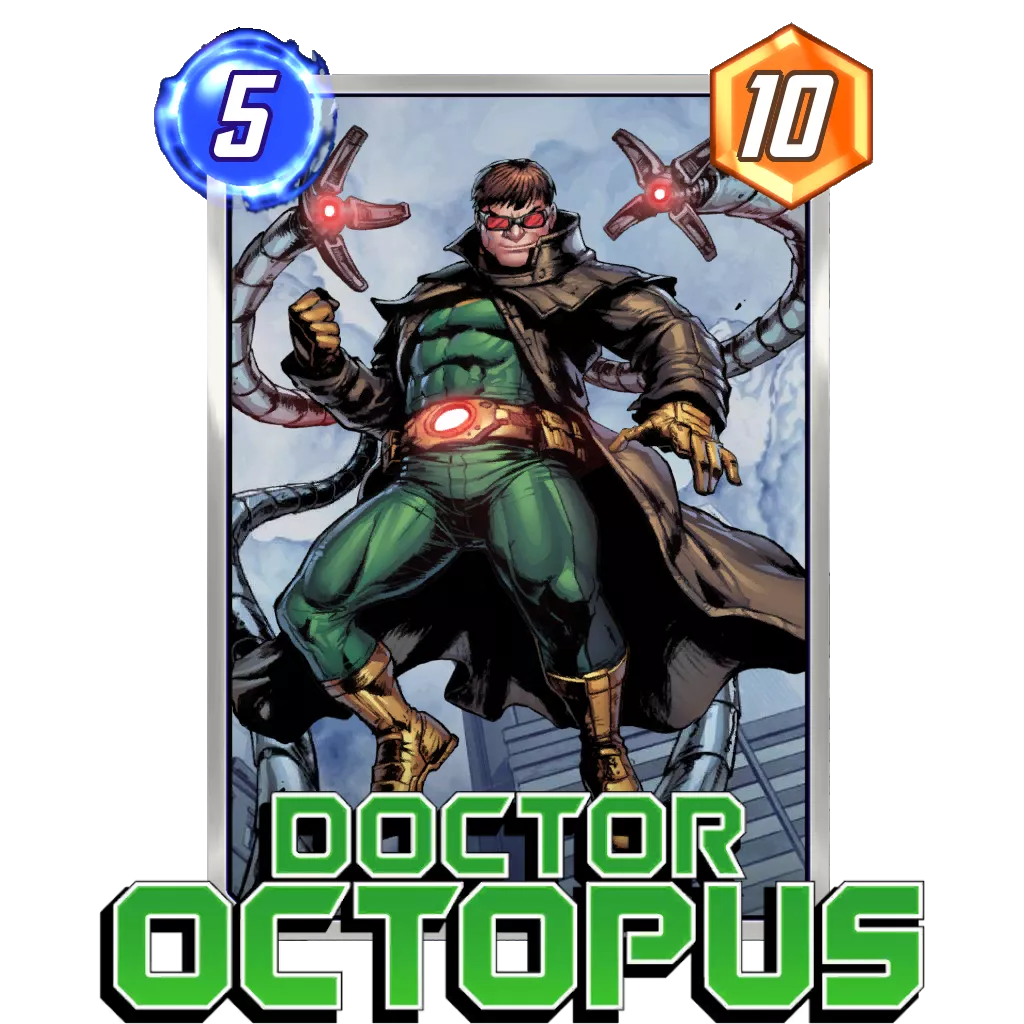
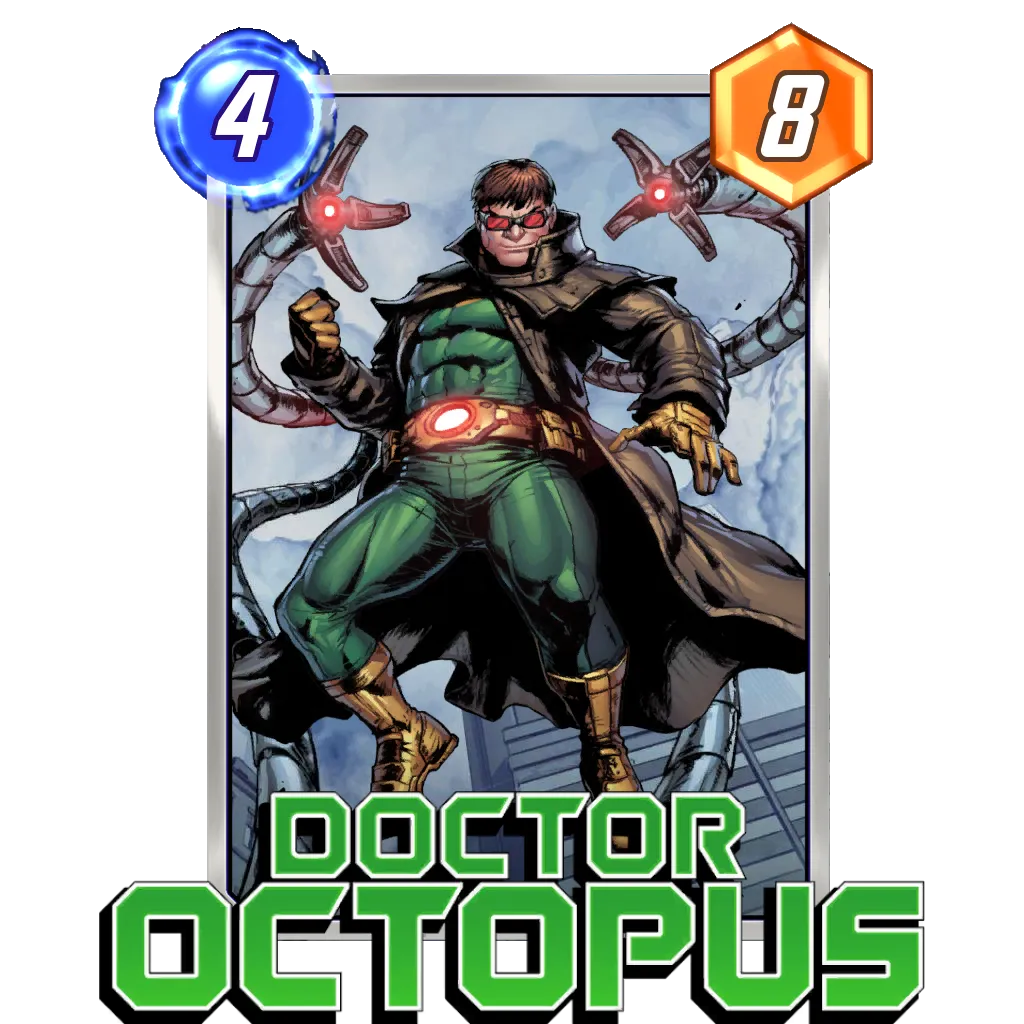
更新

diff --git a/cardlist.html b/cardlist.html
@@ -97,6 +97,7 @@
       <h2>2コスト</h2>
       <li><a href="cardtext/armor.html">アーマー</a></li>
       <li><a href="cardtext/iron-patriot.html">アイアンパトリオット</a></li>
+      <li><a href="cardtext/adam-warlock.html">アダム・ウォーロック</a></li>
       <li><a href="cardtext/angela.html">アンジェラ</a></li>
       <li><a href="cardtext/mysterio.html">イリュージョン！</a></li>
       <li><a href="cardtext/invisible-woman.html">インビジブル・ウーマン</a></li>
@@ -320,7 +321,6 @@
     <section id="section5">
       <h2>5コスト</h2>
       <li><a href="cardtext/iron-man.html">アイアンマン</a></li>
-      <li><a href="cardtext/adam-warlock.html">アダム・ウォーロック</a></li>
       <li><a href="cardtext/annihilus.html">アニヒラス</a></li>
       <li><a href="cardtext/abomination.html">アボミネーション</a></li>
       <li><a href="cardtext/valkyrie.html">ヴァルキリー</a></li>

diff --git a/cardtext/adam-warlock.html b/cardtext/adam-warlock.html
@@ -17,12 +17,12 @@
     <section>
     <img src="../cardimage/adam-warlock.webp" alt="adam-warlock" width="300">
     <h1>アダム・ウォーロック</h1>
-    <p>毎ターン終了時、自分がこのロケーションで優勢の場合、カードを１枚引く。</p>
+    <p>各ターン終了時、自分がここで優勢の場合はカードを１枚引く。そうでない場合はパワーを＋１する。</p>
     
     <h2 class="one_point"></h2>
     <p>
-        ドロー効果は強力だが、現状使いどころがあまりない<br>
-        早く救ってほしいカード
+        ドロー効果とパワーアップ効果を兼ね備えた強カード<br>
+        汎用性の塊
     </p>
 
 </section>

diff --git a/cardtext/dagger.html b/cardtext/dagger.html
@@ -17,6 +17,13 @@
     <img src="../cardimage/dagger.webp" alt="dagger" width="300">
     <h1>ダガー</h1>
     <p>カードがロケーションを移動した時、そこにある相手のカード１枚につき、パワーを＋２する。</p>
+                
+    <h2 class="one_point"></h2>
+    <p>
+        <a href="../cardtext/ghostspider.html">ゴーストスパイダー</a>や<a href="../cardtext/ironfist.html">アイアンフィスト</a>と組み合わせれば低コストで高パワーを出すことが可能<br>
+        移動デッキはもちろん、他のデッキにスパイスとして入れるのも面白い
+    </p>
+
     </section>
 </body>
 </html>

diff --git a/cardtext/doctor-octopus.html b/cardtext/doctor-octopus.html
@@ -16,7 +16,14 @@
     <section>
       <img src="../cardimage/doctor-octopus.webp" alt="doctor-octopus" width="300">
       <h1>ドクター・オクトパス</h1>
-      <p>公開時：相手の手札からカードを４枚引き、このロケーションの相手サイドに置く。</p>
-    </section>
+      <p>公開時：相手の手札からパワーが最も低いカードを1枚引き、このロケーションの相手サイドに置く。</p>
+                    
+      <h2 class="one_point"></h2>
+      <p>
+          ジャンクデッキに使われる<br>
+          
+      </p>
+  
+      </section>
 </body>
 </html>

diff --git a/cardtext/cull-obsidian.html b/cardtext/cull-obsidian.html
@@ -18,6 +18,14 @@
       <img src="../cardimage/cull-obsidian.webp" alt="cull-obsidian" width="300">
       <h1>カル・オブシディアン</h1>
       <p>このカードは、自分の１コストカードがあるロケーションにしかプレイできない。</p>
+                    
+      <h2 class="one_point"></h2>
+      <p>
+          スルトデッキに採用よくされる<br>
+          個人的にはバウンス系のパワー要員で入れるのが好き<br>
+          <a href="../cardtext/sam-wilson-captain-america.html">サム</a>との相性が抜群
+      </p>
+
     </section>
 </body>
 </html>

diff --git a/cardtext/cyclops.html b/cardtext/cyclops.html
@@ -19,6 +19,13 @@
     <p>「X-MEN、行くぞ！」(効果なし)</p>
     <p>or</p>
     <p>ハイ・エボリューショナリーの効果付与時<br>ターン終了時に未使用のエネルギーがある時、このカードがあるロケーションの相手のカード２枚のパワーを－１する。</p>
-    </section>
+                    
+    <h2 class="one_point"></h2>
+    <p>
+        <a href="../cardtext/high-evolutionary.html">ハイエボ</a>で使われたら厄介<br>
+        <a href="../cardtext/nebula.html">ネビュラ</a>との相性がいい
+      </p>
+
+  </section>
 </body>
 </html>

diff --git a/cardtext/electro.html b/cardtext/electro.html
@@ -17,6 +17,13 @@
       <img src="../cardimage/electro.webp" alt="electro" width="300">
       <h1>エレクトロ</h1>
       <p>公開時：エネルギーの最大値を＋１する。<br>永続：自分は各ターンにカードを１枚しかプレイできない。</p>
-    </section>
+                        
+      <h2 class="one_point"></h2>
+      <p>
+          ランプデッキに使われる<br>
+          エレクトロの永続効果を無効化したり、<a href="../cardtext/blink.html">ブリンク</a>でデッキに戻す動きも強い
+      </p>
+  
+      </section>
 </body>
 </html>

diff --git a/cardtext/ebony-maw.html b/cardtext/ebony-maw.html
@@ -17,6 +17,13 @@
     <img src="../cardimage/ebony-maw.webp" alt="ebony-maw" width="300">
     <h1>エボニー・マウ</h1>
     <p>このカードは、ターン３までのみプレイできる。<br>永続：自分はこのロケーションにカードをプレイできない。</p>
+                        
+    <h2 class="one_point"></h2>
+    <p>
+        <a href="../cardtext/war-machine.html">ウォーマシン</a>との相性がいい<br>
+        <a href="../locationtext/oscorp-tower.html">オズコープタワー</a>で送るのもあり
+    </p>
+
     </section>
 </body>
 </html>

diff --git a/cardtext/doctor-strange.html b/cardtext/doctor-strange.html
@@ -17,6 +17,13 @@
         <img src="../cardimage/doctor-strange.webp" alt="doctor-strange" width="300">
         <h1>ドクター・ストレンジ</h1>
         <p>公開時：パワーが最も高い自分のカードを、全てこのロケーションに移動させる。</p>
-    </section>
+                        
+        <h2 class="one_point"></h2>
+        <p>
+            移動デッキに使われる<br>
+            高パワーカードを<a href="../cardtext/shang-chi.html">シャンチー</a>から守れるのもいい
+        </p>
+    
+        </section>
 </body>
 </html>

diff --git a/cardtext/daken.html b/cardtext/daken.html
@@ -19,6 +19,13 @@
     <td><img src="../cardimage/muramasa-shard.webp" alt="muramasa-shard" width="300"></td>
     <h1>ムラマサの破片</h1>
     <p>このカードが破壊または廃棄された時、ダケンのパワーを２倍にする。</p>
+                    
+    <h2 class="one_point"></h2>
+    <p>
+        <a href="../cardtext/bullseye.html">ブルズアイ</a>との相性がいい<br>
+        <a href="../cardtext/frigga.html">フリッガ</a>や<a href="../cardtext/arnim-zola.html">ゾラ</a>で増やすのも強い
+    </p>
+
     </section>
 </body>
 </html>

diff --git a/cardtext/destroyer.html b/cardtext/destroyer.html
@@ -17,6 +17,13 @@
       <img src="../cardimage/destroyer.webp" alt="destroyer" width="300">
       <h1>デストロイヤー</h1>
       <p>公開時：他の全てのロケーションにある自分のカードを全て破壊する。</p>
+                    
+      <h2 class="one_point"></h2>
+      <p>
+          <a href="../cardtext/armor.html">アーマー</a>、<a href="../cardtext/cosmo.html">コスモ</a>で守ったり<br>
+          <a href="../cardtext/nimrod.html">ニムロッド</a>との相性もいい
+      </p>
+  
     </section>
 </body>
 </html>

diff --git a/cardtext/dazzler.html b/cardtext/dazzler.html
@@ -17,6 +17,13 @@
       <img src="../cardimage/dazzler.webp" alt="dazzler" width="300">
       <h1>ダズラー</h1>
       <p>永続：いっぱいになっている自分のロケーション１つにつき、パワーを＋２する。</p>
-    </section>
+                    
+      <h2 class="one_point"></h2>
+      <p>
+          盤面を埋めるデッキによく採用される<br>
+          <a href="../cardtext/moonstone.html">ムーンストーン</a>との組み合わせもグッド
+      </p>
+  
+      </section>
 </body>
 </html>
